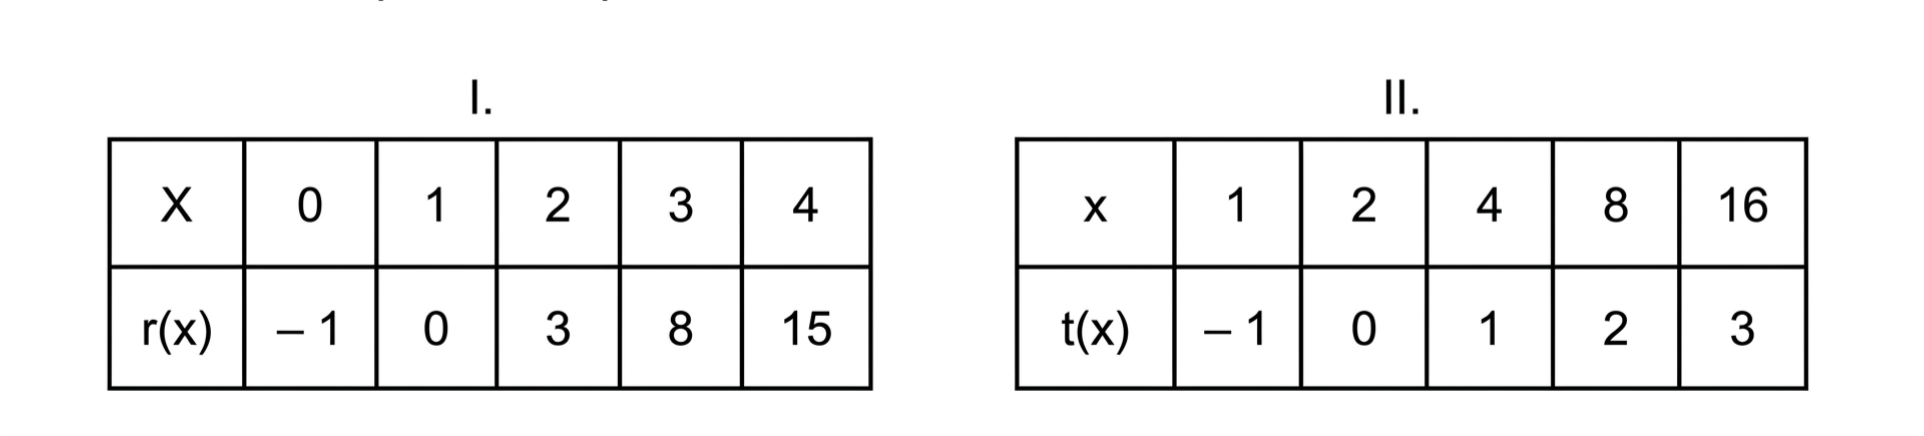
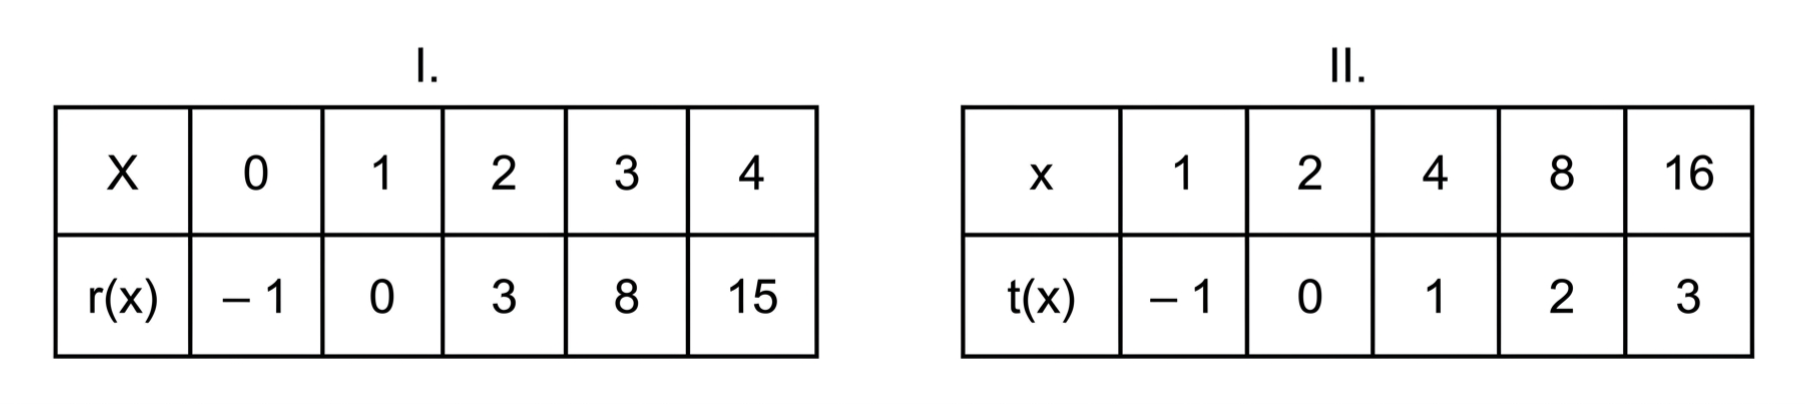
- Changes to reference data

Changed region(s): [[0.5274, 0.1188, 0.9928, 0.9208], [0.031, 0.1188, 0.4654, 0.9208]]

diff --git a/apps/web/app/test/page.tsx b/apps/web/app/test/page.tsx
@@ -136,7 +136,7 @@ export default function QuestionPage() {
       <div className="sticky top-0 z-50 bg-card border-b border-border shadow-sm">
         <div className="mx-auto px-4 md:px-8 py-3 md:py-8 flex items-center justify-between gap-2 md:gap-4">
           {/* Logo: icon + wordmark */}
-          <button //ds
+          <button
             onClick={() => {
               localStorage.setItem("bxm-pilot-answers", JSON.stringify(selectedAnswers));
               localStorage.setItem("bxm-pilot-flags", JSON.stringify(flaggedQuestions));
